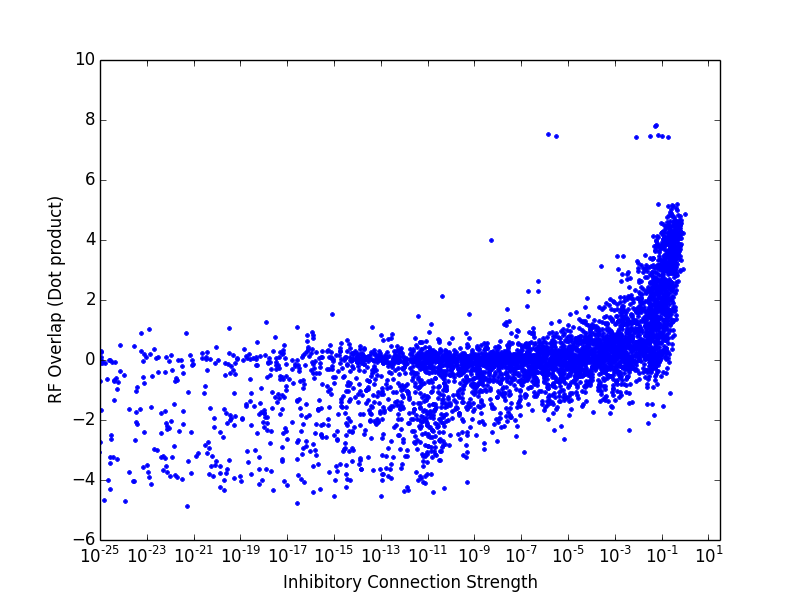
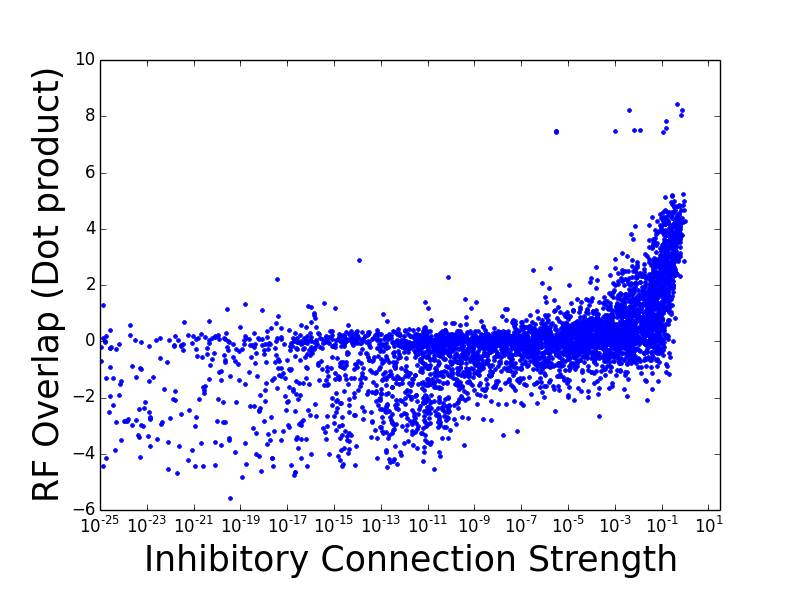
Last Minute Poster Edits

Changed region(s): [[0.0312, 0.12, 0.9062, 0.99], [0.7812, 0.21, 0.8438, 0.24]]

diff --git a/SAILnet_Plotting.py b/SAILnet_Plotting.py
@@ -9,6 +9,7 @@
 
 import cPickle
 import matplotlib.pyplot as plt
+import matplotlib.font_manager as fnt
 import numpy as np
 from utils import tile_raster_images
 import os
@@ -113,13 +114,14 @@ class Plot():
         zeros = np.nonzero(W_flat == 0) #Locates zeros
         W_flat = np.delete(W_flat, zeros) #Deletes Zeros
         W_flat = np.log(W_flat)/np.log(10)
-        num, bin_edges = np.histogram(W_flat,range = (-12,2), bins = 100, density = True)
+        num, bin_edges = np.histogram(W_flat,range = (-6,2), bins = 100, density = True)
         num = np.append(np.array([0]),num)
         bin_edges = 10**bin_edges
         plt.semilogx(bin_edges,num,'o')
-        plt.ylim(0,0.25)
-        plt.xlabel("Inhibitory Connection Strength")
-        plt.ylabel("PDF log(connection strength)")
+        plt.ylim(0,0.9)
+        plt.gcf().subplots_adjust(bottom=0.15)
+        plt.xlabel("Inhibitory Connection Strength",**{'size':'25'})
+        plt.ylabel("PDF log(connection strength)",**{'size':'25'})
         plt.savefig(self.directory + '/Images/InhibitHist.png')
         
     def PlotInh_vs_RF(self):
@@ -139,11 +141,12 @@ class Plot():
         #W_sample = np.delete(W_sample, zeros) #Deletes Zeros
         #RF_sample = np.delete(RF_sample,zeros)
         #W_sample = np.log(W_sample)/np.log(10)
-        plt.xlim(10**-25,10**1.5)
+        plt.xlim(10**-3,10**1.5)
         plt.semilogx(W_sample, RF_sample, '.')
-        plt.xlabel("Inhibitory Connection Strength")
+        plt.gcf().subplots_adjust(bottom=0.15)
+        plt.xlabel("Inhibitory Connection Strength",**{'size':'25'})
         #plt.ylim(-0.7,0.7)
-        plt.ylabel("RF Overlap (Dot product)")
+        plt.ylabel("RF Overlap (Dot product)",**{'size':'25'})
         plt.savefig(self.directory + '/Images/Inhibitory_vs_RF.png')
         
     def Plot_Mag_W(self):
@@ -176,9 +179,9 @@ class Plot():
                 count += 1  
             count1 += 1
             
-            
-        plt.xlabel('time')
-        plt.ylabel('Neuron')
+        plt.gcf().subplots_adjust(bottom=0.15)
+        plt.xlabel('time',**{'size':'25'})
+        plt.ylabel('Neuron',**{'size':'25'})
         
         return reducedSpikes
         

diff --git a/Quick_Plot.py b/Quick_Plot.py
@@ -11,7 +11,7 @@ This program lets us create new plots based on old Pickle files from previous ru
 from SAILnet_Plotting import Plot
 
 OverC = 8
-SA = 1
+SA = 3
 
 directory = './Trials/OC' + str(OverC) + '_' + str(SA)
 data_filename = directory + '/data.pkl'
@@ -19,4 +19,4 @@ data_filename = directory + '/data.pkl'
     
 plotter = Plot(data_filename, directory)
 
-check = plotter.RasterPlot()
+#check = plotter.RasterPlot()
